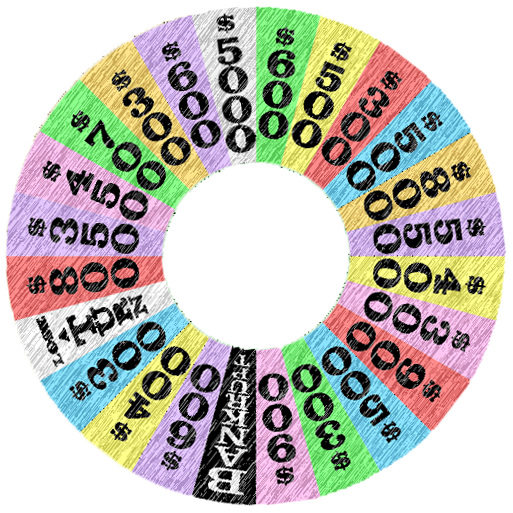
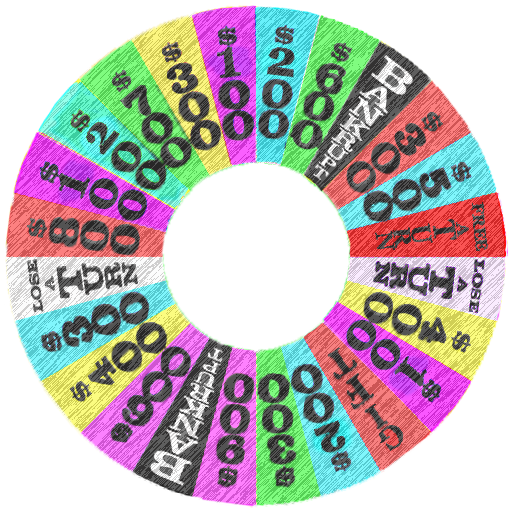
enum wheel

diff --git a/Wheel/Player.cpp b/Wheel/Player.cpp
@@ -35,45 +35,49 @@ int Player::spin(Wheel* wheel) {
 			int out = wheel->getTossUp();
 			setStatus(Player::READY_TO_ANSWER);
 			switch(out) {
-			case Wheel::G_5000 :
-				TossUp = 5000;
+			case Wheel::G_100 :
+			case Wheel::G_100_1 :
+			case Wheel::G_100_2 :
+				TossUp = 100;
 				break;
-			case Wheel::G_300_0 :
+			case Wheel::G_200:
+			case Wheel::G_200_1:
+			case Wheel::G_200_2:
+				TossUp = 200;
+				break;
+			case Wheel::G_300 :
 			case Wheel::G_300_1 :
 			case Wheel::G_300_2:
 			case Wheel::G_300_3 :
 				TossUp = 300;
 				break;
-			case Wheel::G_350 :
-				TossUp = 350;
-				break;	
-			case Wheel::G_400_1 :
-			case Wheel::G_400_2 :
+			case Wheel::G_400 :
+			case Wheel::G_400_1:
 				TossUp = 400;
-				break;
-			case Wheel::G_500_2 :
-			case Wheel::G_500_3 :
-			case Wheel::G_500_4:
+				break;	
+			case Wheel::G_500 :
 				TossUp = 500;
 				break;
-			case Wheel::G_550 :
-				TossUp = 550;
+			case Wheel::G_600 :
+			case Wheel::G_600_1 :
+				TossUp = 600;
 				break;
 			case Wheel::G_700 :
 				TossUp = 700;
 				break;
-			case Wheel::G_600_1 :
-			case Wheel::G_600_2 :
-			case Wheel::G_600_3 :
-				TossUp = 600;
-				break;
-			case Wheel::G_800_1 :
-			case Wheel::G_800_2 :
+			case Wheel::G_800:
 				TossUp = 800;
 				break;
-			case Wheel::G_900_1 :
-			case Wheel::G_900_2 :
+			case Wheel::G_900 :
 				TossUp = 900;
+				break;
+			case Wheel::G_BANKRUPT :
+			case Wheel::G_BANKRUPT_1 :
+				break;
+			case Wheel::G_LOSEATURN :
+			case Wheel::G_LOSEATURN_1 :
+				break;
+			case Wheel::G_FREEATURN :
 				break;
 			}
 		}

diff --git a/Wheel/wheel.cpp b/Wheel/wheel.cpp
@@ -84,13 +84,20 @@ bool Wheel::isSlices15() {
 
 int Wheel::getTossUp() {
 	double angle_in_degree = g_engine->math->toDegrees(this->getAngle());
-	angle_redundance = ((angle_in_degree) - (((int)((angle_in_degree)/360))*360));
-	if ((1 - fabs(angle_redundance/15 - std::floor(angle_redundance))) < 0.1)  {
-		angle_redundance += 2;
-		angle+= g_engine->math->toRadians(0.02);
+	angle_redundance = (this->getAngle() - (((int)((this->getAngle())/g_engine->math->toRadians(360)))*g_engine->math->toRadians(360)));
+	double delta_15 = fabs(g_engine->math->toDegrees(angle_redundance) - std::floor(g_engine->math->toDegrees(angle_redundance)/15)*15);
+	if (delta_15 < 1.5 || (15 - delta_15) < 1.5)  {
+		if (direction == LEFT) {
+			angle_redundance -= g_engine->math->toRadians(2.5);
+			angle -= g_engine->math->toRadians(2.5);
+		}
+		else {
+			angle_redundance += g_engine->math->toRadians(2.5);
+			angle+= g_engine->math->toRadians(2.5);
+		}
 		this->setRotation(this->getAngle());
 	}
-	double slices = angle_redundance/15;
+	double slices = angle_redundance/g_engine->math->toRadians(15);
 	int position = (int)(std::floor(slices));
 	if (position < 0) position = 24 + position;
 	return (Wheel::TossUp = position);

diff --git a/Wheel/wheel.h b/Wheel/wheel.h
@@ -29,9 +29,9 @@ private:
 
 public:
 	enum slices {
-		G_5000,G_600_1,G_300_0,G_700,G_450,G_350,G_800_1,G_LOSE_TURN,G_300_1,G_400_1,
-		G_600_2,G_BANKRUPT,G_900_1,G_300_2,G_500_2,G_900_2,G_300_3,G_400_2,
-		G_550,G_800_2,G_500_3,G_300_4,G_500_4,G_600_3
+		G_100,G_300,G_700,G_200,G_100_1,G_800,G_LOSEATURN,G_300_1,G_400,G_600,G_BANKRUPT,
+		G_900,G_300_2,G_200_1,G_GIFT,G_100_2,G_400_1,G_LOSEATURN_1,G_FREEATURN,
+		G_500,G_300_3,G_BANKRUPT_1,G_600_1,G_200_2
 	};
 	enum DICRECTION  {LEFT,RIGHT,NONE};
 	enum WHEEL_STATUS {STOP=0,SPINNING=1,WAIT};
